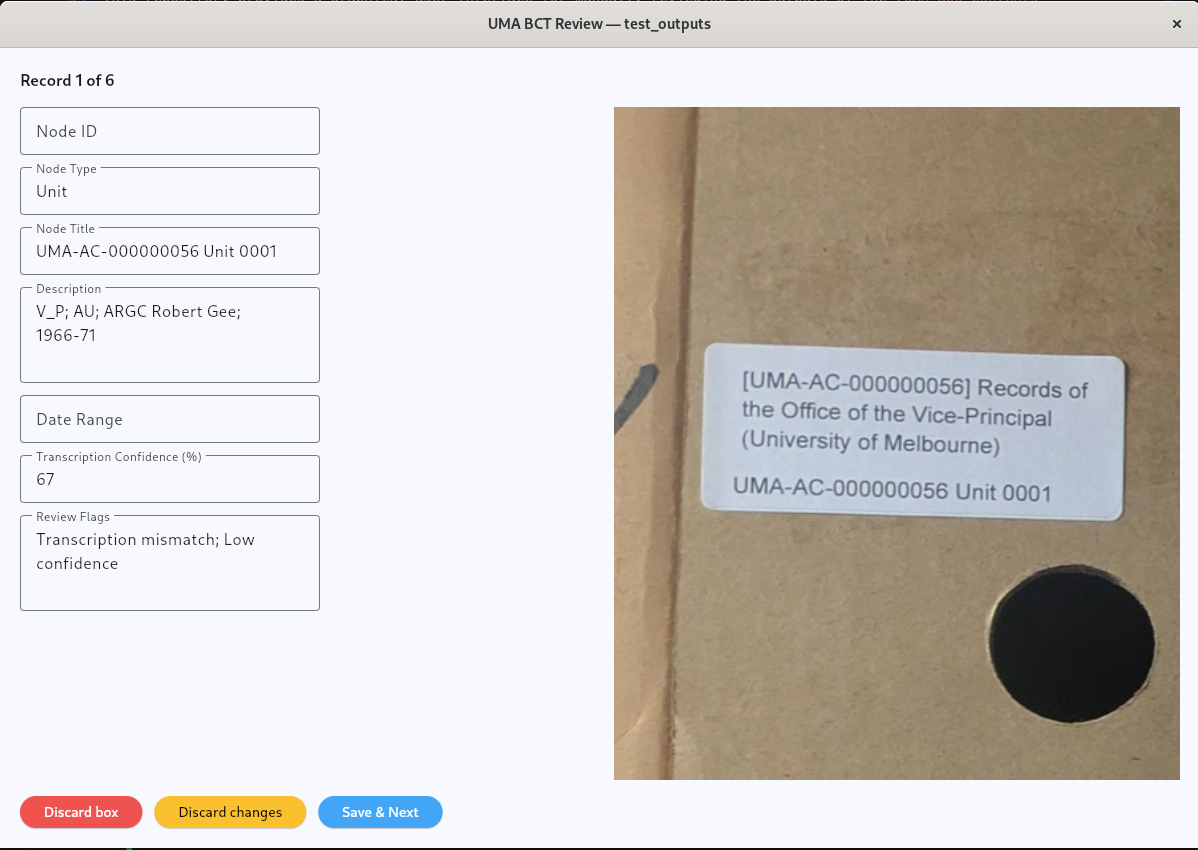
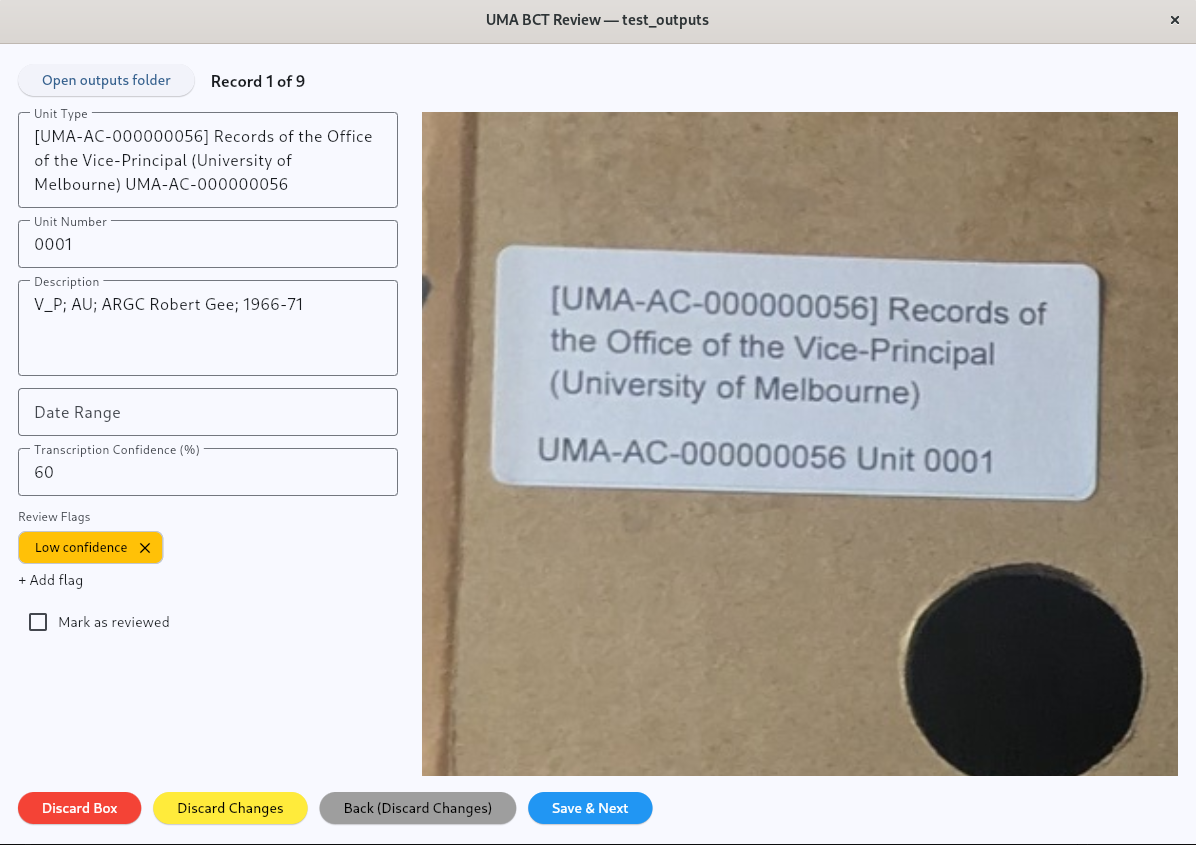
Update README and screenshots

diff --git a/README.md b/README.md
@@ -12,12 +12,9 @@ It also allows users to zoom in on the image as shown
 
 ![Screenshot of the UMA BCT GUI with zoom engaged](./screenshot-zoomed-in.png)
 
+The following screenshot (of the "Add flag" menu) shows the flags available and the colour-coding used:
 
-## Why is this a separate repository?
-
-The GUI has been separated completely from the CLI because of how the client intends to use the software. Recall that the client has mentioned that the main purpose of the GUI is for speeding up the process of manually reviewing the program's outputs. Due to how long the solution takes to run, it's unlikely that this manual review process will start as soon as transcription finishes. Therefore, it doesn't really make sense for the reviewing component of the solution to run in the same process as the transcription component, or for these two components to share an interface.
-
-I also thought about adding another module into the existing repository rather than creating a brand new one, but due to the very different dependencies of the two parts of the project (this GUI depends only on the `flet` package, which is not needed for the CLI, and the CLI has 7 dependencies, none of which are necessary for this), I think having this as a completely separate repository makes the most sense. The archivists could all have this GUI on their own computers (without having to install the CLI, Ollama, or the Qwen model), and everything else could just run on the workstations that are already set up in the archives.
+![Screenshot of the UMA BCT GUI's "Add flag" menu](./flag-colour-coding.png)
 
 ## Setup
 
